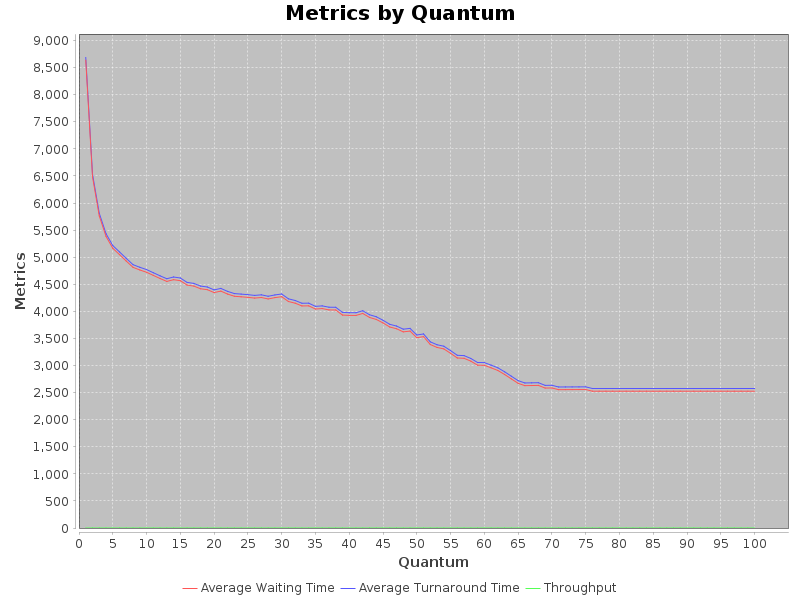
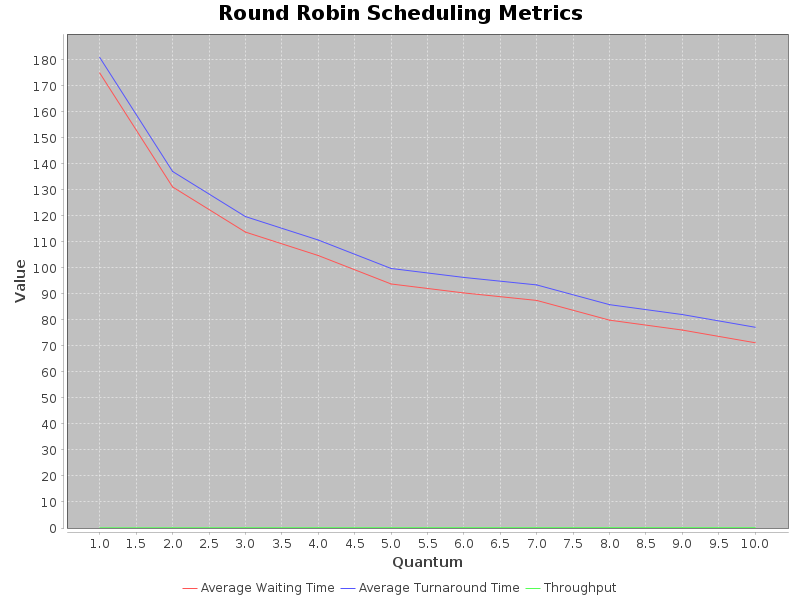
feat: private fields and double values + logs

diff --git a/src/main/java/com/uchoa/Simulation.java b/src/main/java/com/uchoa/Simulation.java
@@ -15,62 +15,44 @@ import java.util.Random;
 
 public class Simulation {
     public static void main(String[] args) throws Exception {
-        int maxQuantum = 100;
-        int simulationsPerQuantum = 10;
-
         List<Job> jobs = new ArrayList<>();
         Random random = new Random();
 
-        for (int i = 0; i < 100; i++) {
-            int burstTime = (int) (50 + 10 * random.nextGaussian());
-            burstTime = Math.max(burstTime, 1);
-            jobs.add(new Job(burstTime, 0));
-        }
-
-        XYSeries seriesWaitingTime = new XYSeries("Average Waiting Time");
-        XYSeries seriesTurnaroundTime = new XYSeries("Average Turnaround Time");
-        XYSeries seriesThroughput = new XYSeries("Throughput");
-
-        for (int quantum = 1; quantum <= maxQuantum; quantum++) {
-            double totalWaitingTime = 0;
-            double totalTurnaroundTime = 0;
-            double totalThroughput = 0;
-
-            for (int i = 0; i < simulationsPerQuantum; i++) {
-                RoundRobin roundRobin = new RoundRobin(1);
-                for (Job job : jobs) {
-                    roundRobin.addProcess(new Job(job.burstTime, job.arrivalTime));
-                }
-                roundRobin.execute(quantum);
-                totalWaitingTime += roundRobin.averageWaitingTime();
-                totalTurnaroundTime += roundRobin.averageTurnaroundTime();
-                totalThroughput += roundRobin.throughput();
-            }
-
-            double averageWaitingTime = totalWaitingTime / simulationsPerQuantum;
-            double averageTurnaroundTime = totalTurnaroundTime / simulationsPerQuantum;
-            double averageThroughput = totalThroughput / simulationsPerQuantum;
-
-            seriesWaitingTime.add(quantum, averageWaitingTime);
-            seriesTurnaroundTime.add(quantum, averageTurnaroundTime);
-            seriesThroughput.add(quantum, averageThroughput);
-
-            System.out.println("Quantum: " + quantum);
-            System.out.println("Average Waiting Time: " + averageWaitingTime);
-            System.out.println("Average Turnaround Time: " + averageTurnaroundTime);
-            System.out.println("Throughput: " + averageThroughput);
-            System.out.println();
+        for (int i = 0; i < 20; i++) {
+            double burstTime = 1 + random.nextDouble() * 10;
+            double arrivalTime = 0;
+            jobs.add(new Job(burstTime, arrivalTime));
         }
 
         XYSeriesCollection dataset = new XYSeriesCollection();
-        dataset.addSeries(seriesWaitingTime);
-        dataset.addSeries(seriesTurnaroundTime);
-        dataset.addSeries(seriesThroughput);
+        XYSeries series1 = new XYSeries("Average Waiting Time");
+        XYSeries series2 = new XYSeries("Average Turnaround Time");
+        XYSeries series3 = new XYSeries("Throughput");
+
+        for (int quantum = 1; quantum <= 10; quantum++) {
+            RoundRobin rr = new RoundRobin(1);
+            for (Job job : jobs) {
+                rr.addProcess(job);
+            }
+            rr.execute(quantum);
+
+            double avgWaitingTime = rr.averageWaitingTime();
+            double avgTurnaroundTime = rr.averageTurnaroundTime();
+            double throughput = rr.throughput();
+
+            series1.add(quantum, avgWaitingTime);
+            series2.add(quantum, avgTurnaroundTime);
+            series3.add(quantum, throughput);
+        }
+
+        dataset.addSeries(series1);
+        dataset.addSeries(series2);
+        dataset.addSeries(series3);
 
         JFreeChart chart = ChartFactory.createXYLineChart(
-                "Metrics by Quantum",
+                "Round Robin Scheduling Metrics",
                 "Quantum",
-                "Metrics",
+                "Value",
                 dataset
         );
 

diff --git a/src/main/java/com/uchoa/model/RoundRobin.java b/src/main/java/com/uchoa/model/RoundRobin.java
@@ -6,60 +6,59 @@ import java.util.List;
 import java.util.Queue;
 
 public class RoundRobin {
-    Queue<Job> queue = new LinkedList<>();
-    List<Job> finishedJobs = new ArrayList<>();
-    int contextSwitchTime;
-    int currentTime = 0;
+    private final Queue<Job> queue = new LinkedList<>();
+    private final List<Job> finishedJobs = new ArrayList<>();
+    private final double contextSwitchTime;
+    private double currentTime = 0;
 
-    public RoundRobin(int contextSwitchTime) {
+    public RoundRobin(double contextSwitchTime) {
         this.contextSwitchTime = contextSwitchTime;
     }
 
     public void addProcess(Job process) {
-        queue.add(new Job(process.burstTime, process.arrivalTime));
+        queue.add(new Job(process.getBurstTime(), process.getArrivalTime()));
         System.out.println("Adicionado processo: " + process);
     }
 
     public void execute(int quantum) {
         while (!queue.isEmpty()) {
             Job process = queue.poll();
-            System.out.println("Iniciando execução do processo: " + process);
-            if (process.burstTime > quantum) {
-                process.burstTime -= quantum;
+            if (process.getBurstTime() > quantum) {
+                process.setBurstTime(process.getBurstTime() - quantum);
                 currentTime += quantum;
+                for (Job job : queue) {
+                    job.setWaitingTime(job.getWaitingTime() + quantum);
+                }
+                queue.add(process);
                 System.out.println("Processo " + process + " executou por " + quantum + " unidades de tempo");
-                for (Job job : queue) {
-                    job.waitingTime += quantum;
-                }
-                queue.add(new Job(process.burstTime, process.arrivalTime, process.waitingTime, process.turnAroundTime));
             } else {
-                currentTime += process.burstTime;
-                System.out.println("Processo " + process + " completou a execução");
+                currentTime += process.getBurstTime();
                 for (Job job : queue) {
-                    job.waitingTime += process.burstTime;
+                    job.setWaitingTime(job.getWaitingTime() + process.getBurstTime());
                 }
-                process.turnAroundTime = currentTime - process.arrivalTime;
-                process.burstTime = 0;
+                process.setTurnAroundTime(currentTime - process.getArrivalTime());
+                process.setBurstTime(0);
                 finishedJobs.add(process);
+                System.out.println("Processo " + process + " completou a execução");
             }
             currentTime += contextSwitchTime;
             System.out.println("Tempo de troca de contexto: " + contextSwitchTime);
             if (!queue.isEmpty()) {
                 for (Job job : queue) {
-                    job.waitingTime += contextSwitchTime;
+                    job.setWaitingTime(job.getWaitingTime() + contextSwitchTime);
                 }
             }
         }
     }
 
     public double averageWaitingTime() {
-        double average = finishedJobs.stream().mapToInt(p -> p.waitingTime).average().orElse(0);
+        double average = finishedJobs.stream().mapToDouble(Job::getWaitingTime).average().orElse(0);
         System.out.println("Tempo médio de espera: " + average);
         return average;
     }
 
     public double averageTurnaroundTime() {
-        double average = finishedJobs.stream().mapToInt(p -> p.turnAroundTime).average().orElse(0);
+        double average = finishedJobs.stream().mapToDouble(Job::getTurnAroundTime).average().orElse(0);
         System.out.println("Tempo médio de retorno: " + average);
         return average;
     }

diff --git a/src/main/java/com/uchoa/model/Job.java b/src/main/java/com/uchoa/model/Job.java
@@ -1,19 +1,51 @@
 package com.uchoa.model;
 
 public class Job {
-    public int burstTime;
-    public int arrivalTime;
-    int waitingTime;
-    int turnAroundTime;
+    private double burstTime;
+    private double arrivalTime;
+    private double waitingTime;
+    private double turnAroundTime;
 
-    public Job(int burstTime, int arrivalTime) {
+    public Job(double burstTime, double arrivalTime) {
         this(burstTime, arrivalTime, 0, 0);
     }
 
-    public Job(int burstTime, int arrivalTime, int waitingTime, int turnAroundTime) {
+    public Job(double burstTime, double arrivalTime, double waitingTime, double turnAroundTime) {
         this.burstTime = burstTime;
         this.arrivalTime = arrivalTime;
         this.waitingTime = waitingTime;
+        this.turnAroundTime = turnAroundTime;
+    }
+
+    public double getBurstTime() {
+        return burstTime;
+    }
+
+    public void setBurstTime(double burstTime) {
+        this.burstTime = burstTime;
+    }
+
+    public double getArrivalTime() {
+        return arrivalTime;
+    }
+
+    public void setArrivalTime(double arrivalTime) {
+        this.arrivalTime = arrivalTime;
+    }
+
+    public double getWaitingTime() {
+        return waitingTime;
+    }
+
+    public void setWaitingTime(double waitingTime) {
+        this.waitingTime = waitingTime;
+    }
+
+    public double getTurnAroundTime() {
+        return turnAroundTime;
+    }
+
+    public void setTurnAroundTime(double turnAroundTime) {
         this.turnAroundTime = turnAroundTime;
     }
 }
